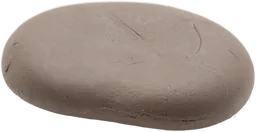
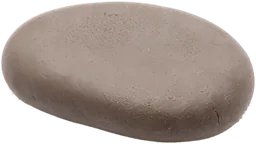
Penguin Pairs: straight stream backgrounds and smooth metal stones
- Reworded the COAST prompt so the three across backgrounds show a straight,
  level stream crossing the whole picture (no lagoon); repainted all three.
- A painted gold stone always came out crinkly, so the gold one is no longer
  painted: tidy now makes smooth gold, silver and bronze stones from the
  repainted grey stone, so all four share one shape.

Claude-Session: https://claude.ai/code/session_01BFGkEdFbCkXba3VhN2Bzns

diff --git a/scripts/korora-art.py b/scripts/korora-art.py
@@ -49,11 +49,12 @@ KORORA_POSES = {
 }
 
 # The stepping stones (and answer stones) carry nothing: numbers are drawn in code, so the top stays smooth and flat.
-PEBBLE = ('One big flat stepping stone rock, wide and low with a flat smooth top to stand on, rounded edges, seen from slightly above, '
-          'the same simple shape every time, its top smooth and plain, ')
+PEBBLE = ('One big flat stepping stone, wide and low with a rounded edge, seen from slightly above, the same simple shape every time, '
+          'its top perfectly smooth and flat, one clean even surface, ')
+# Only the grey stone is painted: the clay style always crinkled a painted gold top, so tidy makes the gold, silver and
+# bronze stones from the smooth grey one (stone_metal), and all four keep the same shape.
 PEBBLES = {
-    'grey': 'soft warm grey stone, matte and gentle',
-    'gold': f'the whole pebble covered edge to edge in shining yellow gold, {SHINE}, every part of it gold, three tiny sparkles',
+    'grey': 'one solid piece of soft warm grey stone, matte and gentle, the same grey all over',
 }
 
 CHICK = ('a cute tiny baby penguin chick, a round fuzzy ball of soft fluffy grey-brown down all over its body and tummy, very fluffy '
@@ -92,10 +93,11 @@ SQUARE = (832, 832)
 WIDE = (1072, 672)  # backgrounds: about 1600 x 1000 after the 1.5x pass
 BACK = (' Empty background scenery for a children\'s game, calm soft colours in the middle so things placed on top stand out. '
         'Wide landscape.' + AGE)
-COAST = ('A wide view of a sunny New Zealand coast: a wide calm glassy lagoon of clear water running straight across the whole picture from '
-         'the left edge to the right edge, filling the lower middle, empty water with nothing in it, a low sandy bank with grass on the far '
-         'left and another on the far right, smooth sand along the very bottom edge, the sea and a pohutukawa tree far behind, the only '
-         'colours sand, green plants, blue water and sky, a tidy uncluttered scene')
+COAST = ('A side view of a sunny New Zealand stream: one straight, level, calm stream of clear water with two parallel straight banks, '
+         'running across the whole picture from the left edge to the right edge through the lower middle, like a wide flat river seen from the '
+         'side, the water an even straight band of the same width all the way across, empty water, a straight sandy grassy bank along the '
+         'bottom edge of the picture and another straight sandy grassy bank along the top of the water, green hills and a pohutukawa tree '
+         'behind the far bank, the only colours sand, green plants, blue water and sky, a tidy uncluttered scene')
 
 PICTURES: dict[str, tuple[str, tuple[int, int]]] = {
     **{f'korora-{p}': (KORORA + w + ', the whole penguin.' + SPRITE, SQUARE) for p, w in KORORA_POSES.items()},
@@ -104,7 +106,7 @@ PICTURES: dict[str, tuple[str, tuple[int, int]]] = {
     **{f'{f}-{p}': (w + pose + '.' + SPRITE, SQUARE) for f, w in FRIENDS.items() for p, pose in FRIEND_POSES.items()},
     # Three backgrounds: a sunny day, sparkling silver light for silver days, and a golden evening for gold days.
     'back-across-day': (COAST + ', bright blue sky, the water clear light blue and calm.' + BACK, WIDE),
-    'back-across-silver': (COAST + ', soft silvery morning light, bright silver glints sparkling on the sea and the lagoon, calm plain water in the middle.' + BACK, WIDE),
+    'back-across-silver': (COAST + ', soft silvery morning light, bright silver glints sparkling along the stream, calm plain water in the middle.' + BACK, WIDE),
     'back-across-evening': (COAST + ', a warm golden evening, the sky orange and gold, golden light on the sand and on the still water.' + BACK, WIDE),
     'card': (KORORA + 'hopping happily along a row of flat stepping stones across a calm glassy lagoon, reflected in the water below, '
              'a pair of shining gold dancing shoes with pink ribbons waiting on the grassy bank ahead, a sunny New Zealand coast, wide '
@@ -196,8 +198,8 @@ def destination(name: str) -> tuple[str, str, str] | None:
 
 
 def tint(img, metal: str):
-    """The bronze and silver stones (and dancing shoes), tinted from the gold one (Hop's pads taught that bronze and silver tries come out part
-    clay, while gold comes out all metal), so the three metal pebbles keep the same shape."""
+    """The bronze and silver dancing shoes, tinted from the gold pair (Hop's pads taught that bronze and silver tries come out part
+    clay, while gold comes out all metal), so the three pairs keep the same shape."""
     import numpy as np
     from PIL import Image
     px = np.asarray(img, dtype=np.float32)
@@ -209,6 +211,31 @@ def tint(img, metal: str):
     }[metal]
     rgb = np.where(light < 0.6, dark + (mid - dark) * light / 0.6, mid + (shine - mid) * (light - 0.6) / 0.4)
     return Image.fromarray(np.dstack([rgb, px[..., 3:]]).clip(0, 255).round().astype(np.uint8), 'RGBA')
+
+
+def stone_metal(img, metal: str):
+    """A smooth polished gold, silver or bronze stone made from the matte grey one: the clay texture is blurred away, the
+    shading kept, and a soft shine added on the top, so the top stays perfectly smooth."""
+    import numpy as np
+    from PIL import Image, ImageFilter
+    px = np.asarray(img, dtype=np.float32)
+    alpha, inside = px[..., 3], px[..., 3] > 200
+    light = px[..., :3].mean(axis=2)
+    lo, hi = np.percentile(light[inside], [2, 98])
+    light = ((light - lo) / (hi - lo)).clip(0, 1)
+    light = np.asarray(Image.fromarray((light * 255).astype(np.uint8)).filter(ImageFilter.GaussianBlur(6)), dtype=np.float32) / 255
+    ys, xs = np.nonzero(inside)
+    tall, wide = ys.max() - ys.min(), xs.max() - xs.min()
+    yy, xx = np.mgrid[:light.shape[0], :light.shape[1]]
+    shine = np.exp(-(((xx - xs.min() - wide * 0.4) / (wide * 0.22)) ** 2 + ((yy - ys.min() - tall * 0.35) / (tall * 0.12)) ** 2))
+    light = (0.15 + 0.75 * light ** 1.3 + 0.5 * shine).clip(0, 1)[..., None]
+    dark, mid, top = {
+        'gold': (np.array([90, 52, 6.]), np.array([222, 170, 40.]), np.array([255, 246, 200.])),
+        'bronze': (np.array([70, 30, 12.]), np.array([190, 112, 50.]), np.array([255, 222, 180.])),
+        'silver': (np.array([48, 54, 64.]), np.array([168, 176, 188.]), np.array([250, 252, 255.])),
+    }[metal]
+    rgb = np.where(light < 0.6, dark + (mid - dark) * light / 0.6, mid + (top - mid) * (light - 0.6) / 0.4)
+    return Image.fromarray(np.dstack([rgb, alpha]).clip(0, 255).round().astype(np.uint8))
 
 
 def tidy(force: bool):
@@ -268,10 +295,12 @@ def tidy(force: bool):
             session = new_session('isnet-general-use')
         cut = trim(fill_holes(remove(img.convert('RGB'), session=session, alpha_matting=True), img.convert('RGB'), name == 'splash'))
         save(fit(cut, {'fish': 160}.get(name, SIZES[folder])), out, 82)
-        if name in ('pebble-gold', 'shoes-gold'):
+        if name == 'pebble-grey':
+            for metal in ('gold', 'bronze', 'silver'):
+                save(fit(stone_metal(cut, metal), SIZES[folder]), GAME_ART / folder / f'{metal}.webp', 82)
+        if name == 'shoes-gold':
             for metal in ('bronze', 'silver'):
-                tinted = f'{metal}.webp' if name == 'pebble-gold' else f'shoes-{metal}.webp'
-                save(fit(tint(cut, metal), SIZES[folder]), GAME_ART / folder / tinted, 82)
+                save(fit(tint(cut, metal), SIZES[folder]), GAME_ART / folder / f'shoes-{metal}.webp', 82)
 
 
 if __name__ == '__main__':

diff --git a/docs/KORORA-ART-PLAN.md b/docs/KORORA-ART-PLAN.md
@@ -8,10 +8,12 @@ Pipi were painted.
 
 James's changes (4 Nov 2026): the penguin is Two-Shoes, the stones go across the water and the prize is dancing shoes. Repaint `pebble-grey`, `pebble-gold`, `shoes-gold`, the three `back-across-*`, `card`, `sparkle` and `takahe-*` (the tidy step makes `shoes-bronze` and `shoes-silver` from the gold pair). Done 5 Nov 2026; the chicks, `pukeko-wait` and both `kereru-*` were repainted too (sparkle, chick, pukeko and kereru prompts reworded), and tidy now makes a figure's see-through middle solid (not the splash).
 
+Repaint 3 (5 Nov 2026): the three `back-across-*` now show a straight stream crossing the whole picture (the COAST prompt was reworded). `pebble-gold` is no longer painted: tidy makes gold, silver and bronze from the smooth grey stone.
+
 | Group | Names | Notes |
 | --- | --- | --- |
 | Two-Shoes | `korora-wait`, `korora-dive`, `korora-gulp`, `korora-cheer` | little blue penguin with a red knitted scarf |
-| Stepping stones | `pebble-grey`, `pebble-gold` | flat stones to stand on; bronze and silver are tinted from gold; numbers are drawn in code |
+| Stepping stones | `pebble-grey` | flat stones to stand on; tidy makes the smooth gold, silver and bronze stones from the grey one (a painted gold top always came out crinkly); numbers are drawn in code |
 | Things | `chick-wait`, `chick-happy`, `fish`, `shoes-gold`, `splash`, `sparkle` | the fish is drawn many times, so it must read small |
 | Friends | `hoiho`, `kiwi`, `pukeko`, `kereru`, `takahe` × `wait`, `cheer` | one new pool friend per Golden Fish |
 | Backs | `back-across-day`, `back-across-silver`, `back-across-evening` | calm water right across the scene, a bank at each side, for the stepping stones |
@@ -20,7 +22,7 @@ James's changes (4 Nov 2026): the penguin is Two-Shoes, the stones go across the
 ## Steps
 
 1. Check ComfyUI is up: `curl http://100.97.96.115:8188/system_stats` (Tailscale).
-2. Paint pebbles first to check the style: `python3 scripts/korora-art.py paint ~/dragon-art-inbox/korora-art/set pebble-grey pebble-gold --tries 2`.
+2. Paint pebbles first to check the style: `python3 scripts/korora-art.py paint ~/dragon-art-inbox/korora-art/set pebble-grey --tries 2`.
 3. Paint the rest with 2 tries each: `python3 scripts/korora-art.py paint ~/dragon-art-inbox/korora-art/set --tries 2`.
 4. Pick the best try of each into `docs/korora-art/picks.json` (`{"name": try}`).
 5. Tidy into the game: `~/.cache/rembg-venv/bin/python scripts/korora-art.py tidy`.
